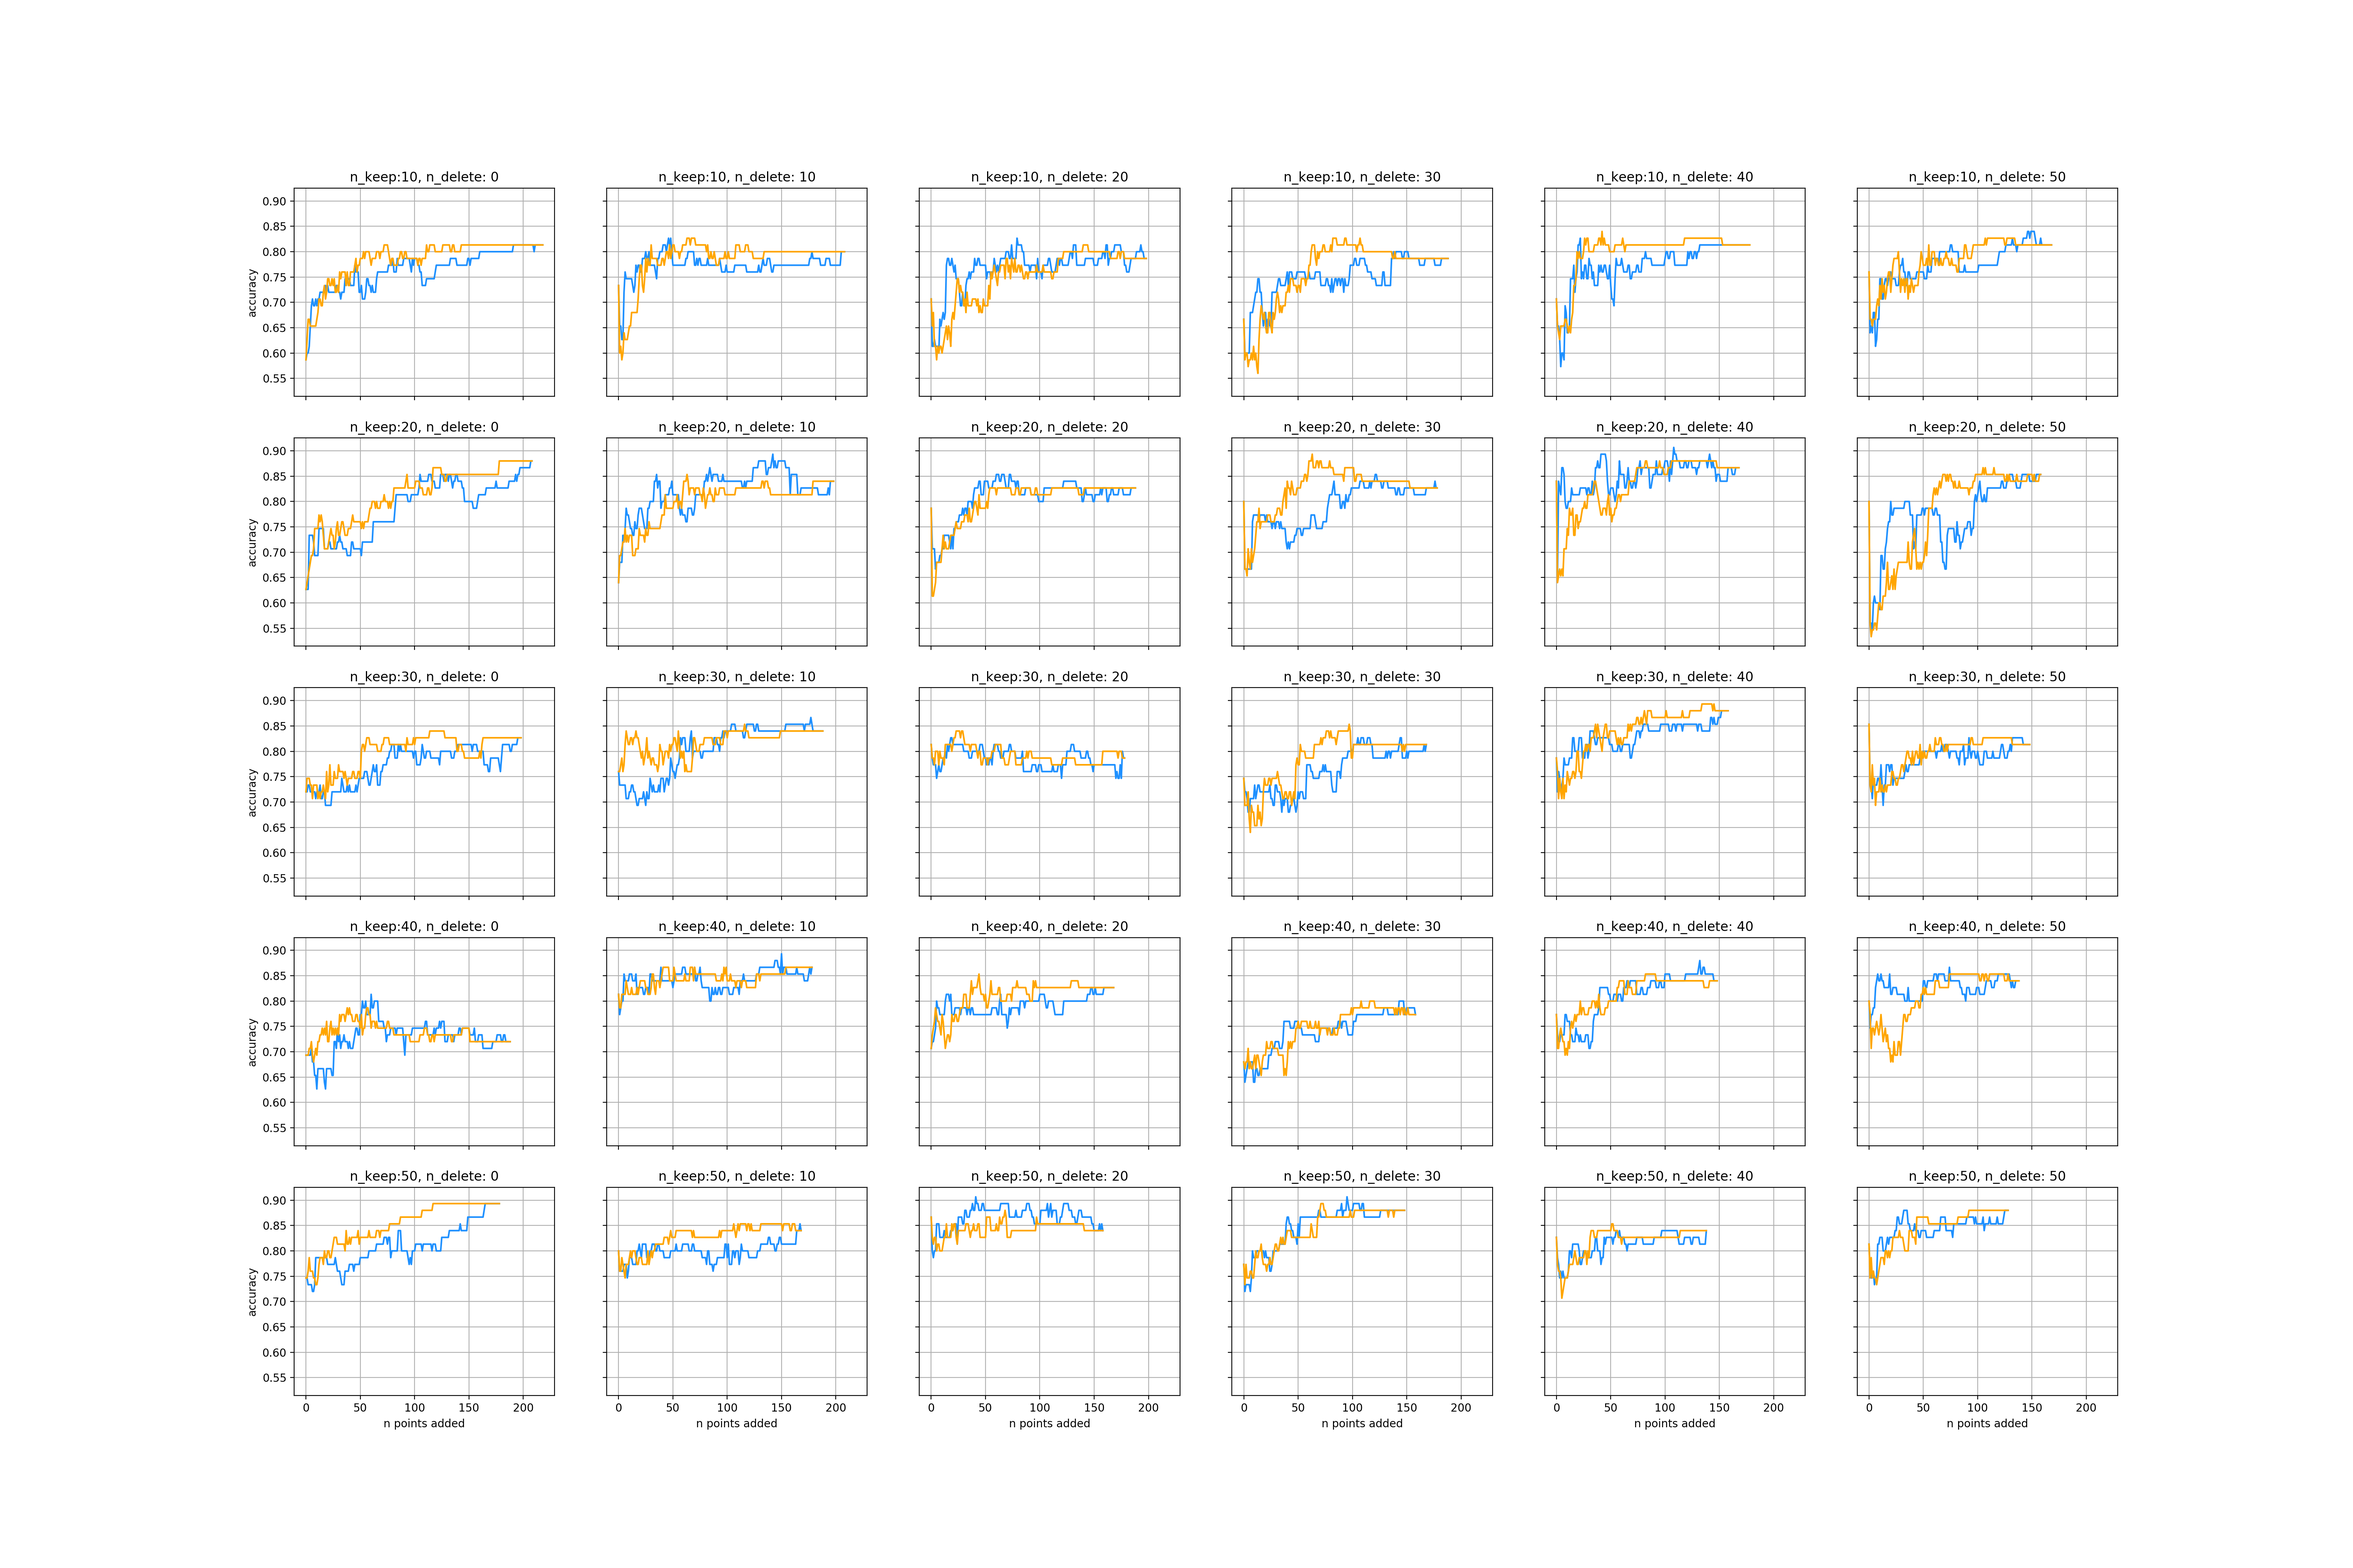
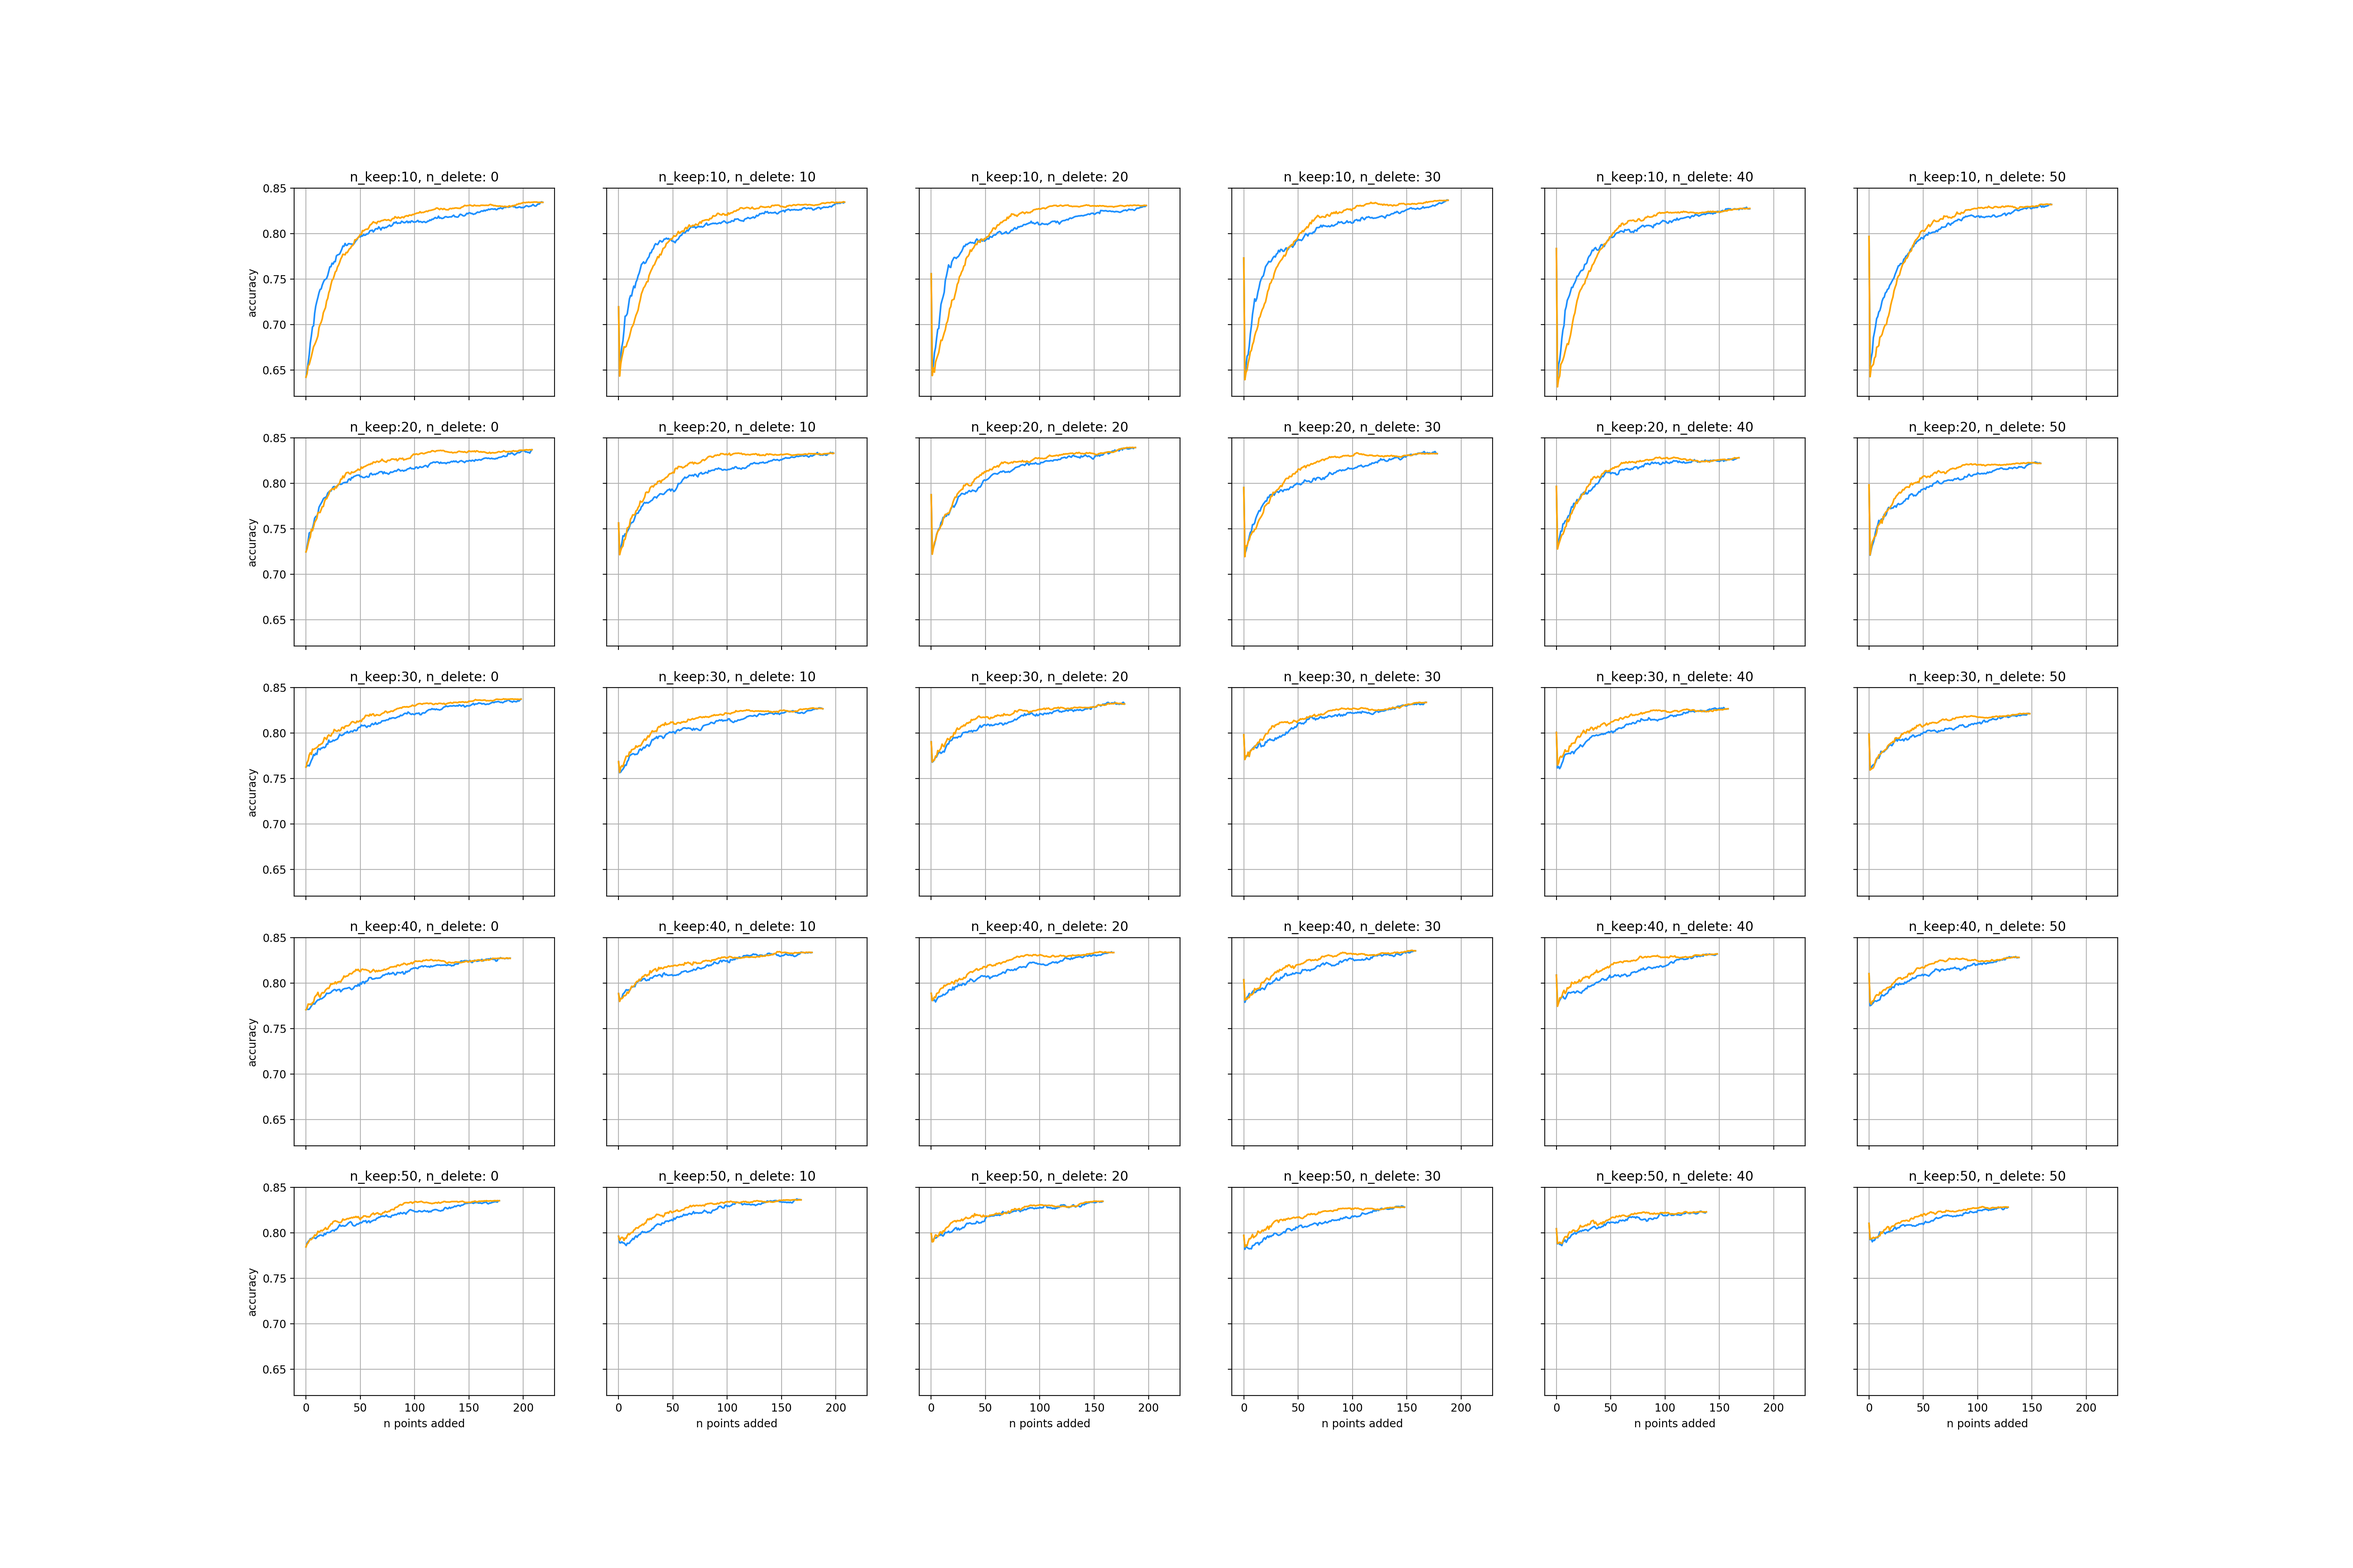
result from grid experiment

diff --git a/keep_delete_experiments.py b/keep_delete_experiments.py
@@ -1,3 +1,6 @@
+import matplotlib
+matplotlib.use('Agg')
+
 import experiment
 import census_import
 import heart_import
@@ -106,7 +109,7 @@ heart, heart_with_dummies = get_heart_data('input_data/heart.csv')
 
 keeps = range(10, 60, 10)
 deletes = range(0, 60, 10)
-reps = 50
+reps = 100
 save_path_name = 'keep_delete_50_rep_grid.png'
 
 results = run_experiments(keeps, deletes, reps)
